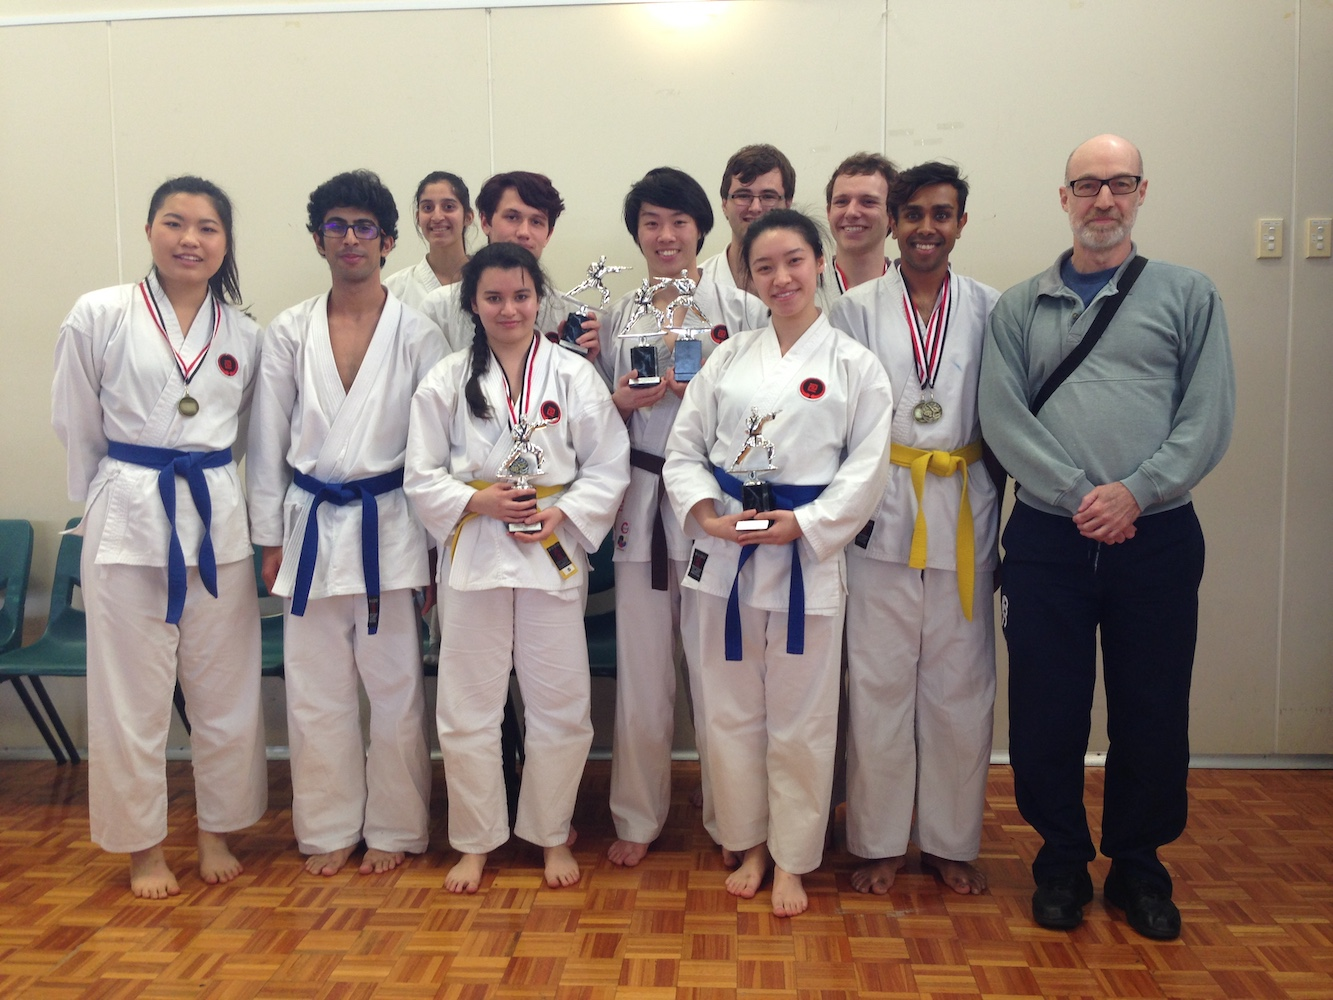
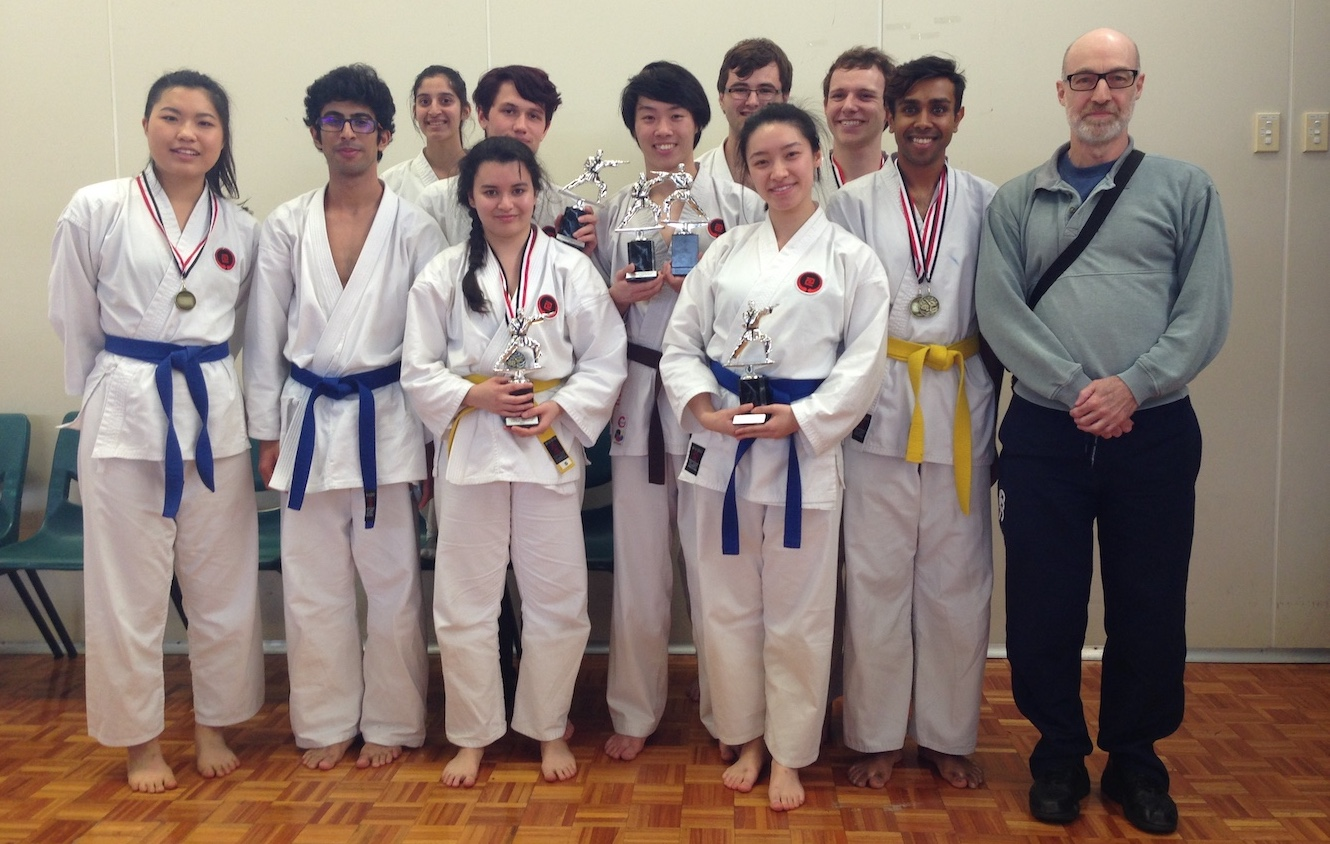
Reverted accidental change to a hero image. Added new section to about page. Added more photos.

diff --git a/src/features/about-page/about-page.vue b/src/features/about-page/about-page.vue
@@ -50,7 +50,12 @@
         times a year and attend training camps around New Zealand (and
         occassionally overseas!).
       </p>
+      <p>
+        See the <router-link :to="'/events'">events page</router-link> for
+        information on upcoming events.
+      </p>
     </div>
+
     <div class="club-event-sect">
       <div class="swipe-container">
         <app-image
@@ -61,6 +66,33 @@
           :caption="i.caption"
         />
       </div>
+    </div>
+    <div class="imageThree">
+      <app-image
+        :source="'img/hawks_nest_sensei.jpg'"
+        :caption="'Sensei Ewan explaining an exercise at the Hawks Nest'"
+      />
+    </div>
+    <div class="paraThree">
+      <h2>Training Location & Facilities</h2>
+      <p>
+        Most club trainings are run out of the awesome
+        <a href="https://hawksnestgym.co.nz/" target="_blank">Hawks Nest Gym</a>
+        which is a fully furbished Mauy Thai Gym located at Level 3/492 Queen
+        Street, Auckland; near the intersection of Queen Street and City Road.
+      </p>
+      <p>
+        The gym facilities include padded floors, a shower, bathroom, mirrors,
+        punching bags, skipping ropes, Muay Thai style focus mitts and more.
+        We've also stocked the with some equipment of our own, including kick
+        shields and
+        <a
+          href="https://zoehinis.com/2014/09/04/hojo-undo-101-chishi/"
+          target="_blank"
+          >chishi</a
+        >, a traditional Karate training implement from Okinawa (the birthplace
+        of Karate).
+      </p>
     </div>
 
     <div class="instructors-sect">
@@ -132,15 +164,16 @@ export default {
         {
           source: "img/gishiki_group.jpg",
           caption:
-            "Club members with their fellow New ZEalanders at a international training camp."
+            "Club members with their fellow New Zealanders at an international training camp."
         },
         {
           source: "img/camp_2019.png",
-          caption: "Fun at the 2019 Club Karate Camp"
+          caption: "Fun at the Club's 2019 Karate Camp"
         },
         {
           source: "img/tournament.jpg",
-          caption: "Smiles after placing at the Bi-Annual Pukekohe Tournament"
+          caption:
+            "Smiles after placing at the Bi-Annual Pukekohe Karate Tournament"
         }
       ]
     };
@@ -167,6 +200,10 @@ export default {
 .paraTwo {
   grid-area: paraTwo;
 }
+.paraThree {
+  grid-area: paraThree;
+}
+
 .imageThree {
   grid-area: imageThree;
 }
@@ -177,7 +214,6 @@ export default {
 }
 
 .club-event-sect {
-  max-width: 600px;
   grid-area: events;
   overflow: hidden;
 }
@@ -214,6 +250,7 @@ export default {
     "hero hero"
     "imageOne paraOne"
     "paraTwo events"
+    "imageThree paraThree"
     "instructors instructors";
   grid-column-gap: 30px;
   grid-row-gap: 40px;
@@ -231,6 +268,8 @@ export default {
       "paraOne paraOne"
       "paraTwo paraTwo"
       "events events"
+      "imageThree imageThree"
+      "paraThree paraThree"
       "instructors instructors";
   }
 }
